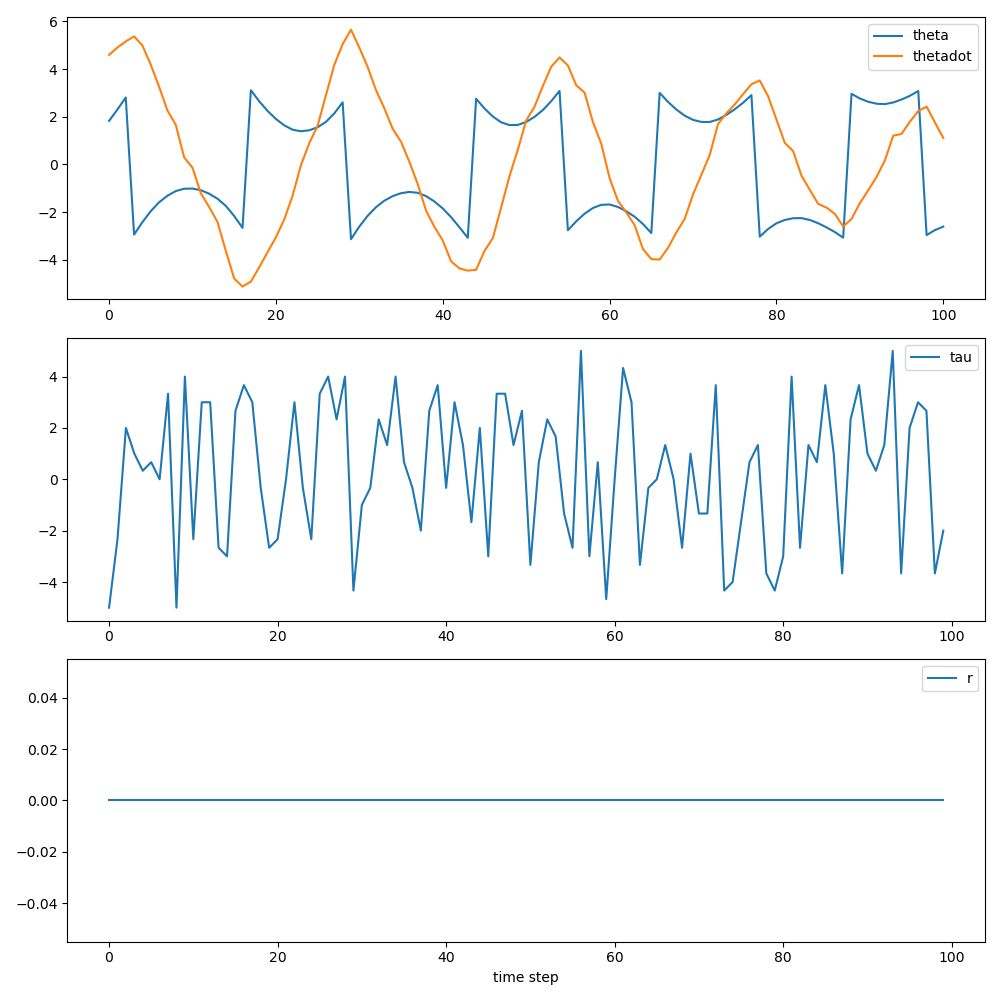
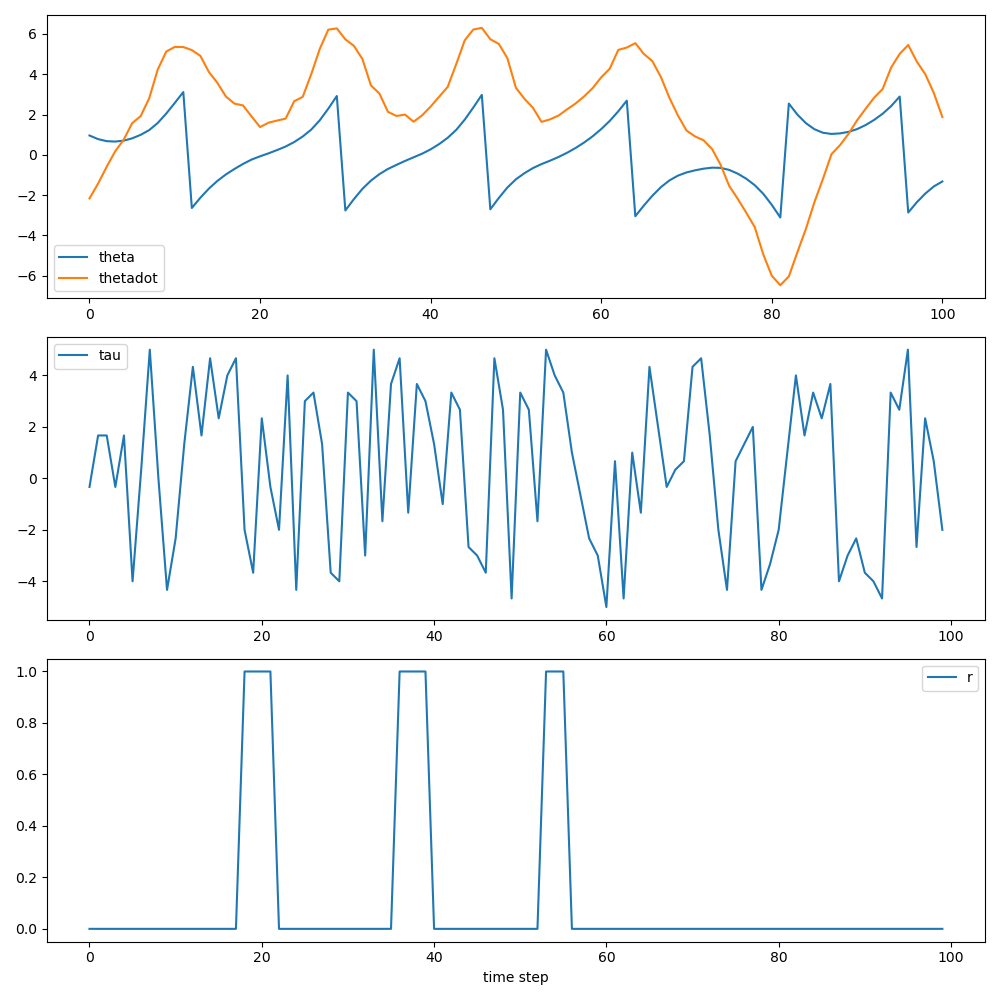
main loop of DQN is working

diff --git a/train_discreteaction_pendulum.py b/train_discreteaction_pendulum.py
@@ -1,0 +1,174 @@
+import torch
+import torch.nn as nn
+import torch.optim as optim
+import numpy as np
+import discreteaction_pendulum
+import matplotlib.pyplot as plt
+
+import random
+from collections import deque
+
+class DQNAgent:
+    def __init__(self, state_size, action_size, buffer_size=int(1e5), batch_size=64, gamma=0.95, tau=1e-3, lr=5e-4):
+        self.state_size = state_size
+        self.action_size = action_size
+        self.buffer = deque(maxlen=buffer_size)
+        self.batch_size = batch_size
+        self.gamma = gamma
+        self.tau = tau
+        self.lr = lr
+        self.target_update_frequency = 5
+        self.steps = 0
+        
+        # Define two neural networks for the online and target models
+        self.online_model = nn.Sequential(
+            nn.Linear(state_size, 64),
+            nn.ReLU(),
+            nn.Linear(64, 64),
+            nn.ReLU(),
+            nn.Linear(64, action_size)
+        )
+        self.target_model = nn.Sequential(
+            nn.Linear(state_size, 64),
+            nn.ReLU(),
+            nn.Linear(64, 64),
+            nn.ReLU(),
+            nn.Linear(64, action_size)
+        )
+        # Initialize the weights of the target network to be the same as the online network
+        self.target_model.load_state_dict(self.online_model.state_dict())
+        
+        # Define the optimizer and loss function for training the online network
+        self.optimizer = optim.Adam(self.online_model.parameters(), lr=self.lr)
+        self.loss_fn = nn.MSELoss()
+        
+    def act(self, state, eps=0.):
+        """
+        Select an action to take given the current state
+        """
+        if np.random.rand() > eps:
+            state = torch.from_numpy(state).float().unsqueeze(0)
+            self.online_model.eval()
+            with torch.no_grad():
+                action_values = self.online_model(state)
+            self.online_model.train()
+            action = np.argmax(action_values.cpu().data.numpy())
+        else:
+            action = np.random.choice(np.arange(self.action_size))
+        return action
+        
+    def remember(self, state, action, reward, next_state, done):
+        """
+        Add a transition to the replay buffer and potentially train the network
+        """
+        self.buffer.append((state, action, reward, next_state, done))
+        if len(self.buffer) > self.batch_size:
+            self.replay()
+
+        self.steps += 1
+            
+
+    def replay(self):
+        """
+        Update the weights of the online network based on a batch of experiences
+        """
+        
+        if len(self.buffer) < self.batch_size:
+            return
+        
+        batch = random.sample(self.buffer, min(len(self.buffer), self.batch_size))
+        # Sample a batch of experiences from the replay buffer
+        batch = random.sample(self.buffer, self.batch_size)
+        states, actions, rewards, next_states, dones = zip(*batch)
+        states = torch.from_numpy(np.vstack(states)).float()
+        actions = torch.from_numpy(np.vstack(actions)).long()
+        rewards = torch.from_numpy(np.vstack(rewards)).float()
+        next_states = torch.from_numpy(np.vstack(next_states)).float()
+        dones = torch.from_numpy(np.vstack(dones).astype(np.uint8)).float()
+        
+        # Compute the TD targets using the target network
+        with torch.no_grad():
+            Q_targets_next = self.target_model(next_states).detach().max(1)[0].unsqueeze(1)
+            Q_targets = rewards + (self.gamma * Q_targets_next * (1 - dones))
+        
+        # Compute the Q values using the online network
+        Q_expected = self.online_model(states).gather(1, actions)
+        
+        # Compute the loss and update the weights of the online network
+        loss = self.loss_fn(Q_expected, Q_targets)
+        self.optimizer.zero_grad()
+        loss.backward()
+        self.optimizer.step()
+
+        # Update the target network weights
+        if self.steps % self.target_update_frequency == 0:
+            self.target_model.load_state_dict(self.online_model.state_dict())
+
+
+
+def main():
+
+    env = discreteaction_pendulum.Pendulum()
+    state_size = env.num_states
+    action_size = env.num_actions
+
+    agent = DQNAgent(state_size, action_size)
+
+    # EPISODES = 200
+    EPISODES = 20
+
+    """Train the agent"""
+    scores = []
+    traj = []
+    actions = []
+    for episode in range(EPISODES):
+        state = env.reset()
+        done = False
+        score = 0
+        while not done:
+            action = agent.act(state)
+            next_state, reward, done = env.step(action)
+            agent.remember(state, action, reward, next_state, done)
+            score += reward
+            state = next_state
+            agent.replay()  # Train the agent on a batch of experiences
+
+        scores.append(score)
+        traj.append(state)
+        actions.append(action)
+
+        if episode % 10 == 0:
+            print(f"Episode: {episode}/{EPISODES}, Score: {score}")
+    # print(f'the actions taken are {actions}\n')
+    """Plot the learning curve"""
+    plt.figure(dpi=150)
+    plt.plot(scores)
+    plt.title('Learning Curve')
+    plt.xlabel('Episode')
+    plt.ylabel('Reward')
+    plt.savefig('figures_trained/LearningCurve.png')
+
+    """Plot an example trajectory"""
+    traj = np.array(traj)
+    plt.figure(dpi=150)
+    plt.plot(traj[:, 0], label='theta')
+    plt.plot(traj[:, 1], label='theta_dot')
+    plt.legend()
+    plt.title('Example Trajectory')
+    plt.xlabel('Time Step')
+    plt.ylabel('State Value')
+    plt.savefig('figures_trained/ExampleTrajectory.png')
+    
+
+    """Making an animated trajectory"""
+  
+    # convert actions list to numpy array
+    policy = lambda s: actions[int(s) % len(actions)]
+
+    # call the video function with the modified policy function
+    env.video(policy, filename='figures_trained/trained_pendulum.gif')
+
+
+if __name__ == '__main__':
+    main()
+

diff --git a/test_discreteaction_pendulum.py b/test_discreteaction_pendulum.py
@@ -26,7 +26,7 @@ def main():
     #
 
     # Define a policy that maps every state to the "zero torque" action
-    policy = lambda s: env.num_actions // 2
+    policy = lambda s: actions[s % len(actions)]
 
     # Simulate an episode and save the result as an animated gif
     env.video(policy, filename='figures/test_discreteaction_pendulum.gif')
